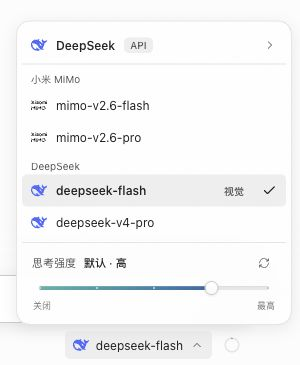
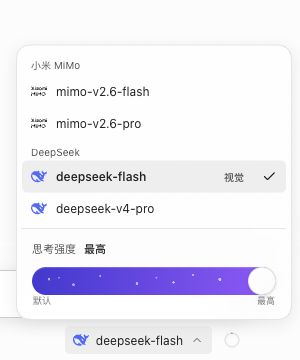
feat(ui): simplify grouped models and add violet glass reasoning slider

diff --git a/web-agent/web/src/composerModelSelect.css b/web-agent/web/src/composerModelSelect.css
@@ -4,7 +4,6 @@
 .composer-model-select.app-select > .app-select-trigger[aria-expanded="true"]:not(:focus-visible) { outline: none; }
 .composer-model-setup { display: inline-flex; align-items: center; gap: 7px; height: 28px; padding: 0 8px; border: 0; border-radius: var(--radius-control); background: transparent; color: var(--text-secondary); font: inherit; font-size: 12px; white-space: nowrap; }
 .composer-model-setup:hover:not(:disabled) { background: var(--surface-hover); color: var(--foreground); }
-.composer-model-heading { padding: 7px 9px; color: var(--text-muted); font-size: 11px; }
 .composer-model-search { display: flex; align-items: center; gap: 7px; margin: 2px 5px 7px; padding: 0 9px; border: 1px solid var(--border); border-radius: var(--radius-control); color: var(--text-muted); }
 .composer-model-search:focus-within { border-color: var(--focus); }
 .composer-model-search input { min-width: 0; width: 100%; height: 32px; margin: 0; padding: 0; border: 0; outline: none; background: transparent; color: var(--foreground); font: inherit; font-size: 12px; }
@@ -22,13 +21,7 @@
   backdrop-filter: var(--title-glass-filter);
   box-shadow: inset 0 1px color-mix(in srgb,var(--surface) 65%,transparent),var(--shadow-popover);
 }
-.composer-provider-heading { display: flex; align-items: center; gap: 9px; width: 100%; min-height: 38px; padding: 7px 9px; border: 0; border-bottom: 1px solid var(--border); background: transparent; color: var(--foreground); font: inherit; text-align: left; cursor: pointer; }
-.composer-provider-heading > span { min-width: 0; overflow: hidden; text-overflow: ellipsis; white-space: nowrap; font-weight: 550; }
-.composer-provider-heading > small,.composer-model-capability { flex-shrink: 0; border-radius: var(--radius-control); padding: 2px 6px; color: var(--text-secondary); background: var(--surface-hover); font-size: 10px; font-weight: 500; }
-.composer-provider-arrow { margin-left: auto; flex-shrink: 0; color: var(--text-muted); }
-.composer-provider-heading:hover { background: var(--surface-hover); }
-.composer-provider-heading:focus-visible { outline-offset: -2px; }
-.composer-model-popup .composer-model-heading { padding: 7px 9px 3px; font-size: 10px; }
+.composer-model-capability { flex-shrink: 0; border-radius: var(--radius-control); padding: 2px 6px; color: var(--text-secondary); background: var(--surface-hover); font-size: 10px; font-weight: 500; }
 .composer-model-popup .app-select-group { padding: 7px 9px 3px; font-size: 10px; }
 .composer-model-popup .app-select-option { min-height: 32px; padding: 6px 9px; }
 .composer-model-popup .composer-model-label small { font-size: 10px; }
@@ -38,34 +31,25 @@
 .composer-reasoning-heading { display: flex; align-items: center; gap: 8px; min-height: 22px; margin-bottom: 2px; }
 .composer-reasoning-heading > span { color: var(--text-secondary); font-size: 11px; }
 .composer-reasoning-heading > strong { font-size: 11px; font-weight: 500; }
-.composer-reasoning-default { display: grid; place-items: center; width: 24px; height: 22px; margin-left: auto; padding: 0; border: 0; border-radius: var(--radius-control); background: transparent; color: var(--text-muted); cursor: pointer; }
-.composer-reasoning-default:hover:not(:disabled) { background: var(--surface-hover); color: var(--foreground); }
-/* Keep a generous hit area around a fine rail; thumb and fill share one mapping. */
-.composer-reasoning-track { position: relative; height: 24px; }
-.composer-reasoning-track::before,.composer-reasoning-track::after { content: ""; position: absolute; top: 10px; left: 7px; height: 4px; border-radius: 2px; pointer-events: none; }
-.composer-reasoning-track::before { right: 7px; background: color-mix(in srgb,var(--text-muted) 17%,var(--surface)); box-shadow: inset 0 1px 1px color-mix(in srgb,var(--foreground) 5%,transparent); }
-.composer-reasoning-track::after { width: calc((100% - 14px) * var(--reasoning-progress)); background: linear-gradient(100deg,color-mix(in srgb,var(--chart-2) 75%,var(--surface)),var(--info)); box-shadow: inset 0 1px color-mix(in srgb,var(--surface) 16%,transparent); }
-.composer-reasoning-track input { position: absolute; z-index: 2; inset: 0; appearance: none; -webkit-appearance: none; width: 100%; height: 24px; margin: 0; border: 0; padding: 0; background: transparent; cursor: pointer; }
-.composer-reasoning-track input::-webkit-slider-runnable-track { height: 4px; background: transparent; }
-.composer-reasoning-track input::-webkit-slider-thumb { appearance: none; -webkit-appearance: none; width: 14px; height: 14px; margin-top: -5px; border: 1px solid var(--border-strong); border-radius: 50%; background: linear-gradient(var(--surface),var(--surface-subtle)); box-shadow: 0 1px 3px color-mix(in srgb,var(--foreground) 15%,transparent),inset 0 1px color-mix(in srgb,var(--surface) 90%,transparent); }
-.composer-reasoning-track input::-moz-range-track { height: 4px; background: transparent; }
-.composer-reasoning-track input::-moz-range-thumb { width: 12px; height: 12px; border: 1px solid var(--border-strong); border-radius: 50%; background: linear-gradient(var(--surface),var(--surface-subtle)); box-shadow: 0 1px 3px color-mix(in srgb,var(--foreground) 15%,transparent); }
-.composer-reasoning-track input:focus-visible { outline: 2px solid var(--focus); outline-offset: 2px; border-radius: var(--radius-control); }
+/* Luminous violet capsule, with one crisp glass thumb over a quiet star field. */
+.composer-reasoning-track { position: relative; height: 28px; margin-top: 7px; border-radius: 14px; background: linear-gradient(100deg,var(--reasoning-violet-start),var(--reasoning-violet-end)); box-shadow: inset 0 1px 1px rgb(255 255 255 / .2); }
+.composer-reasoning-track::after { content: ""; position: absolute; inset: 0 0 0 calc(14px + (100% - 28px) * var(--reasoning-progress)); border-radius: inherit; background: color-mix(in srgb,var(--surface) 48%,transparent); pointer-events: none; }
+.composer-reasoning-track input { position: absolute; z-index: 2; inset: -2px 0; appearance: none; -webkit-appearance: none; width: 100%; height: 32px; margin: 0; border: 0; padding: 0; background: transparent; cursor: pointer; }
+.composer-reasoning-track input::-webkit-slider-runnable-track { height: 28px; background: transparent; }
+.composer-reasoning-track input::-webkit-slider-thumb { appearance: none; -webkit-appearance: none; width: 28px; height: 28px; border: 1px solid var(--border); border-radius: 50%; background: linear-gradient(150deg,var(--surface),var(--surface-subtle)); box-shadow: 0 1px 4px color-mix(in srgb,var(--foreground) 18%,transparent),inset 0 1px rgb(255 255 255 / .75); }
+.composer-reasoning-track input::-moz-range-track { height: 28px; background: transparent; }
+.composer-reasoning-track input::-moz-range-thumb { width: 26px; height: 26px; border: 1px solid var(--border); border-radius: 50%; background: linear-gradient(150deg,var(--surface),var(--surface-subtle)); box-shadow: 0 1px 4px color-mix(in srgb,var(--foreground) 18%,transparent); }
+.composer-reasoning-track input:focus-visible { outline: 2px solid var(--focus); outline-offset: 3px; border-radius: 16px; }
 .composer-reasoning-track input:disabled { cursor: default; }
-.composer-reasoning-ticks { position: absolute; z-index: 1; inset: 0 7px; display: flex; align-items: center; justify-content: space-between; pointer-events: none; }
-.composer-reasoning-ticks i { width: 2px; height: 2px; border-radius: 50%; background: color-mix(in srgb,var(--text-muted) 45%,var(--surface)); }
-.composer-reasoning-ticks i[data-active] { background: color-mix(in srgb,var(--surface) 70%,transparent); }
+.composer-reasoning-sparkles { position: absolute; z-index: 1; inset: 0; border-radius: inherit; pointer-events: none; background: radial-gradient(circle at 7% 44%,#fff9 0 1px,transparent 1.4px),radial-gradient(circle at 11% 38%,#fff6 0 .8px,transparent 1.2px),radial-gradient(circle at 17% 63%,#fff8 0 1.2px,transparent 1.6px),radial-gradient(circle at 28% 32%,#fff8 0 .8px,transparent 1.2px),radial-gradient(circle at 43% 59%,#fff9 0 1.1px,transparent 1.5px),radial-gradient(circle at 51% 38%,#fff6 0 .8px,transparent 1.2px),radial-gradient(circle at 58% 55%,#fff9 0 1px,transparent 1.4px),radial-gradient(circle at 66% 29%,#fff8 0 .8px,transparent 1.2px),radial-gradient(circle at 77% 44%,#fffa 0 1.3px,transparent 1.7px),radial-gradient(circle at 92% 59%,#fff8 0 1.1px,transparent 1.5px); }
 .composer-reasoning-scale { display: flex; justify-content: space-between; margin: 0 1px; color: var(--text-muted); font-size: 9px; line-height: 12px; }
 .composer-reasoning-hint,.composer-reasoning-error { margin: 9px 0 0; font-size: 11px; line-height: 1.5; color: var(--text-secondary); }
 .composer-reasoning-error { color: var(--danger); overflow-wrap: anywhere; }
 .composer-reasoning-error button { margin-left: 8px; border: 0; background: transparent; color: inherit; text-decoration: underline; cursor: pointer; }
-.composer-reasoning-single { padding: 5px 12px; border: 1px solid var(--border); border-radius: var(--radius-control); background: var(--surface-hover); color: var(--foreground); font: inherit; }
 @media (pointer: coarse) {
-  .composer-model-popup .app-select-option,.composer-provider-heading { min-height: 44px; }
-  .composer-reasoning-default { width: 44px; height: 44px; }
-  .composer-reasoning-track { height: 44px; }
-  .composer-reasoning-track input { height: 44px; }
-  .composer-reasoning-track::before,.composer-reasoning-track::after { top: 20px; }
+  .composer-model-popup .app-select-option { min-height: 44px; }
+  .composer-reasoning-track { margin-block: 14px 8px; }
+  .composer-reasoning-track input { inset-block: -8px; height: 44px; }
 }
 
 @media (max-height: 520px) {

diff --git a/web-agent/web/src/ReasoningSelector.tsx b/web-agent/web/src/ReasoningSelector.tsx
@@ -1,7 +1,6 @@
 import { useEffect, useRef, useState, type CSSProperties } from "react";
 import type { ReasoningSettings } from "../../shared/contracts";
 import { api, readableError } from "./api";
-import { Glyph } from "./Icons";
 
 const labels: Record<string, string> = { "": "默认", none: "关闭", minimal: "极低", low: "低", medium: "中", high: "高", xhigh: "极高", max: "最高", ultra: "极致" };
 
@@ -36,23 +35,25 @@ export function ReasoningSelector({ session, modelId, disabled, disabledReason, 
     } finally { saving.current = false; setBusy(false); setPreview(null); onSaving(false); }
   };
   const effort = preview ?? (valid ? settings.effort : "");
-  const effective = effort || (valid ? settings.default : "") || levels[0];
-  const index = Math.max(0, levels.indexOf(effective || ""));
+  const stops = ["", ...levels];
+  const index = Math.max(0, stops.indexOf(effort));
   const label = valid ? effort ? labels[effort] ?? effort : `默认${settings.default ? ` · ${labels[settings.default] ?? settings.default}` : ""}` : error ? "读取失败" : "读取中…";
   const hint = busy ? "正在保存…" : disabled ? disabledReason || "当前暂不能调整思考强度。" : "";
   const unavailable = disabled || busy || !valid;
   return <section className="composer-reasoning-panel" aria-label="思考强度" aria-busy={busy}>
-    <div className="composer-reasoning-heading"><span>思考强度</span><strong aria-live="polite">{label}</strong><button type="button" className="composer-reasoning-default" disabled={unavailable} aria-label="恢复模型默认强度" aria-pressed={valid && settings.effort === ""} title={valid && settings.default ? `模型默认：${labels[settings.default] ?? settings.default}` : "使用模型默认级别"} onClick={() => void select("")}><Glyph name="refresh" size={12}/></button></div>
-    {valid && (levels.length > 1 ? <div className="composer-reasoning-track" style={{"--reasoning-progress":index / (levels.length - 1)} as CSSProperties}>
-      <input type="range" min={0} max={levels.length - 1} step={1} value={index} aria-label="思考强度" aria-valuetext={labels[effective || ""] ?? effective} disabled={unavailable}
-        onChange={event => setPreview(levels[Number(event.target.value)] ?? null)}
-        onPointerUp={event => void select(levels[Number(event.currentTarget.value)]!)}
-        onPointerCancel={() => setPreview(null)}
-        onKeyUp={event => { if (["ArrowLeft", "ArrowRight", "ArrowUp", "ArrowDown", "Home", "End"].includes(event.key)) void select(levels[Number(event.currentTarget.value)]!); }}
-        onBlur={() => { if (preview !== null) void select(preview); }}/>
-      <div className="composer-reasoning-ticks" aria-hidden="true">{levels.map((level,step) => <i key={level} data-active={step <= index || undefined}/>)}</div>
-    </div> : <button className="composer-reasoning-single" type="button" disabled={unavailable} onClick={() => void select(levels[0]!)}>{labels[levels[0]!] ?? levels[0]}</button>)}
-    {valid && levels.length > 1 && <div className="composer-reasoning-scale" aria-hidden="true"><span>{labels[levels[0]!] ?? levels[0]}</span><span>{labels[levels.at(-1)!] ?? levels.at(-1)}</span></div>}
+    <div className="composer-reasoning-heading"><span>思考强度</span><strong aria-live="polite">{label}</strong></div>
+    {valid && <>
+      <div className="composer-reasoning-track" style={{"--reasoning-progress":index / (stops.length - 1)} as CSSProperties}>
+        <input type="range" min={0} max={stops.length - 1} step={1} value={index} aria-label="思考强度" aria-valuetext={effort ? labels[effort] ?? effort : label} disabled={unavailable}
+          onChange={event => setPreview(stops[Number(event.target.value)] ?? null)}
+          onPointerUp={event => void select(stops[Number(event.currentTarget.value)]!)}
+          onPointerCancel={() => setPreview(null)}
+          onKeyUp={event => { if (["ArrowLeft", "ArrowRight", "ArrowUp", "ArrowDown", "Home", "End"].includes(event.key)) void select(stops[Number(event.currentTarget.value)]!); }}
+          onBlur={() => { if (preview !== null) void select(preview); }}/>
+        <span className="composer-reasoning-sparkles" aria-hidden="true"/>
+      </div>
+      <div className="composer-reasoning-scale" aria-hidden="true"><span>默认</span><span>{labels[levels.at(-1)!] ?? levels.at(-1)}</span></div>
+    </> }
     {hint && <p className="composer-reasoning-hint">{hint}</p>}
     {error && <p className="composer-reasoning-error" role="alert">{error}{!valid && <button type="button" onClick={() => setRetry(value => value + 1)}>重试</button>}</p>}
   </section>;

diff --git a/web-agent/web/src/ComposerModelSelect.tsx b/web-agent/web/src/ComposerModelSelect.tsx
@@ -23,9 +23,9 @@ export function ComposerModelSelect({available,modelName,selection,configured,op
     icon={<ProviderIcon brand={modelBrand(modelName||"",current?.displayName,current?.providerName)} size={16}/>}
     open={open} aria-busy={disabled} onOpenChange={next=>{if(next&&disabled) return;if(next) setSearch("");onOpenChange(next);}}
     onChange={event=>{const row=rows.find(row=>row.value===event.target.value);if(row) onSelect(row.model);}}
-    popupHeader={({listId,activeId})=><><button type="button" className="composer-provider-heading" onClick={onSettings}><ProviderIcon brand={modelBrand(modelName||"",current?.displayName,current?.providerName)} size={16}/><span>{current?.providerName||"模型设置"}</span><small>{available.source==="magpie"?"Magpie":"API"}</small><Glyph name="next" size={14} className="composer-provider-arrow"/></button>{groups.length<=1&&<div className="composer-model-heading">模型</div>}{rows.length>8&&<label className="composer-model-search"><Glyph name="search" size={15}/><input autoFocus role="combobox" aria-expanded={open} aria-controls={listId} aria-activedescendant={activeId} aria-autocomplete="list" aria-label="搜索模型" placeholder="搜索模型或厂商…" value={search} onChange={event=>setSearch(event.target.value)}/></label>}</>}
+    popupHeader={rows.length>8?({listId,activeId})=><label className="composer-model-search"><Glyph name="search" size={15}/><input autoFocus role="combobox" aria-expanded={open} aria-controls={listId} aria-activedescendant={activeId} aria-autocomplete="list" aria-label="搜索模型" placeholder="搜索模型或厂商…" value={search} onChange={event=>setSearch(event.target.value)}/></label>:undefined}
     emptyMessage={available.loading?"正在获取可用模型…":query?"没有找到匹配的模型":note||"暂无可用模型，请先添加供应商。"}
     popupFooter={<>{reasoning}{note&&rows.length>0&&<p className="composer-model-note">{note}</p>}</>}
     renderOption={option=>{const row=rows.find(row=>row.value===option.value)!;return <><ProviderIcon brand={modelBrand(row.name,row.label,row.group)} size={16}/><span className="composer-model-label"><span>{row.label}</span>{row.name!==row.label&&<small>{row.name}</small>}</span>{available.imageInputCapabilities?.[row.name]&&<small className="composer-model-capability">视觉</small>}</>;}}
-  >{groups.map(group=>group&&groups.length>1?<optgroup key={group} label={visible.find(row=>row.groupId===group)!.group}>{visible.filter(row=>row.groupId===group).map(row=><option key={row.value} value={row.value} disabled={disabled}>{row.label}</option>)}</optgroup>:visible.filter(row=>row.groupId===group).map(row=><option key={row.value} value={row.value} disabled={disabled}>{row.label}</option>))}</AppSelect>;
+  >{groups.map(group=>group?<optgroup key={group} label={visible.find(row=>row.groupId===group)!.group}>{visible.filter(row=>row.groupId===group).map(row=><option key={row.value} value={row.value} disabled={disabled}>{row.label}</option>)}</optgroup>:visible.filter(row=>row.groupId===group).map(row=><option key={row.value} value={row.value} disabled={disabled}>{row.label}</option>))}</AppSelect>;
 }

diff --git a/web-agent/web/src/theme.css b/web-agent/web/src/theme.css
@@ -53,6 +53,8 @@
   --chart-2: #159b88;
   --chart-3: #cd8a25;
   --chart-4: #8064be;
+  --reasoning-violet-start: #4338d5;
+  --reasoning-violet-end: #9957ff;
   --terminal-background: #fafafa;
   --terminal-foreground: #303030;
   --terminal-selection: #dbe5f2;

diff --git a/docs/ui-guidelines.md b/docs/ui-guidelines.md
@@ -8,7 +8,7 @@
 
 “新建资源”弹窗暂只提供 SSH 主机，类型选项及说明不展示数据库、Redis 和 Docker。此限制仅针对手动新建入口，保留已有其他资源及其服务能力。
 
-聊天输入框将模型与思考强度合并到同一个 `AppSelect` 弹层，工具栏仅保留带 `ProviderIcon` 的 28px 模型入口。弹层顶部显示当前供应商及配置入口，中部按来源分组展示真实可用模型与视觉能力，下部通过 footer 插槽展示会话的思考强度，不另建模型弹层或嵌套下拉。思考强度使用离散滑杆，仅使用服务端返回的支持档位，采用 4px 细轨道、14px 中性圆形滑钮及低饱和度青蓝填充，保留当前级别文字和带无障碍名称的恢复默认图标；使用默认时显示“默认 · 模型实际默认档位”。弹层桌面宽约 276px、模型行高 32px、供应商行高 38px，减少分组与底部留白；触摸设备保留至少 44px 点击区。卡片复用顶部会话标题的 `--title-glass-*` 材质变量，保持相同的透光、18px 模糊、饱和度与边缘反光，减少透明度及不支持背景模糊时沿用主题实色回退。拖动时仅预览，松开或键盘调整结束后保存；方向键、Home/End 不触发模型列表选择，Escape 关闭整个弹层。切换模型后重新读取能力，未知、加载失败、运行或保存期间不可调整；错误在弹层内展示并支持重试。无思考能力的模型不显示该分区。默认项保留模型默认语义，不能将默认偷偷保存为显式档位。模型列表继续使用公共定位、勾选、搜索及键盘行为，适配窄窗口、深色主题和长列表滚动。
+聊天输入框将模型与思考强度合并到同一个 `AppSelect` 弹层，工具栏仅保留带 `ProviderIcon` 的 28px 模型入口。弹层直接按供应商来源分组展示真实可用模型与视觉能力，不再显示顶部当前供应商/API 入口，下部通过 footer 插槽展示会话的思考强度，不另建模型弹层或嵌套下拉。思考强度使用离散滑杆，仅使用服务端返回的支持档位，采用 28px 蓝紫渐变胶囊、细微静态光点和同尺寸中性玻璃滑钮；默认是滑杆首档，不再显示刷新/重置图标，后续仅列出当前模型实际支持的级别。使用默认时显示“默认 · 模型实际默认档位”，拖回首档仍保存空 effort。弹层桌面宽约 276px、模型行高 32px；触摸设备保留至少 44px 点击区。卡片复用顶部会话标题的 `--title-glass-*` 材质变量，保持相同的透光、18px 模糊、饱和度与边缘反光，减少透明度及不支持背景模糊时沿用主题实色回退。拖动时仅预览，松开或键盘调整结束后保存；方向键、Home/End 不触发模型列表选择，Escape 关闭整个弹层。切换模型后重新读取能力，未知、加载失败、运行或保存期间不可调整；错误在弹层内展示并支持重试。无思考能力的模型不显示该分区。默认项保留模型默认语义，不能将默认偷偷保存为显式档位。模型列表继续使用公共定位、勾选、搜索及键盘行为，适配窄窗口、深色主题和长列表滚动。
 
 输入框默认提示使用“想让 Lake 帮你做什么？”，引用类型在 `@` 菜单展示；排队、待确认时继续显示对应状态提示。思考强度在运行或保存期间保留当前级别与完整不透明度，通过禁用语义及弹层内说明表达暂不能调整。
 
